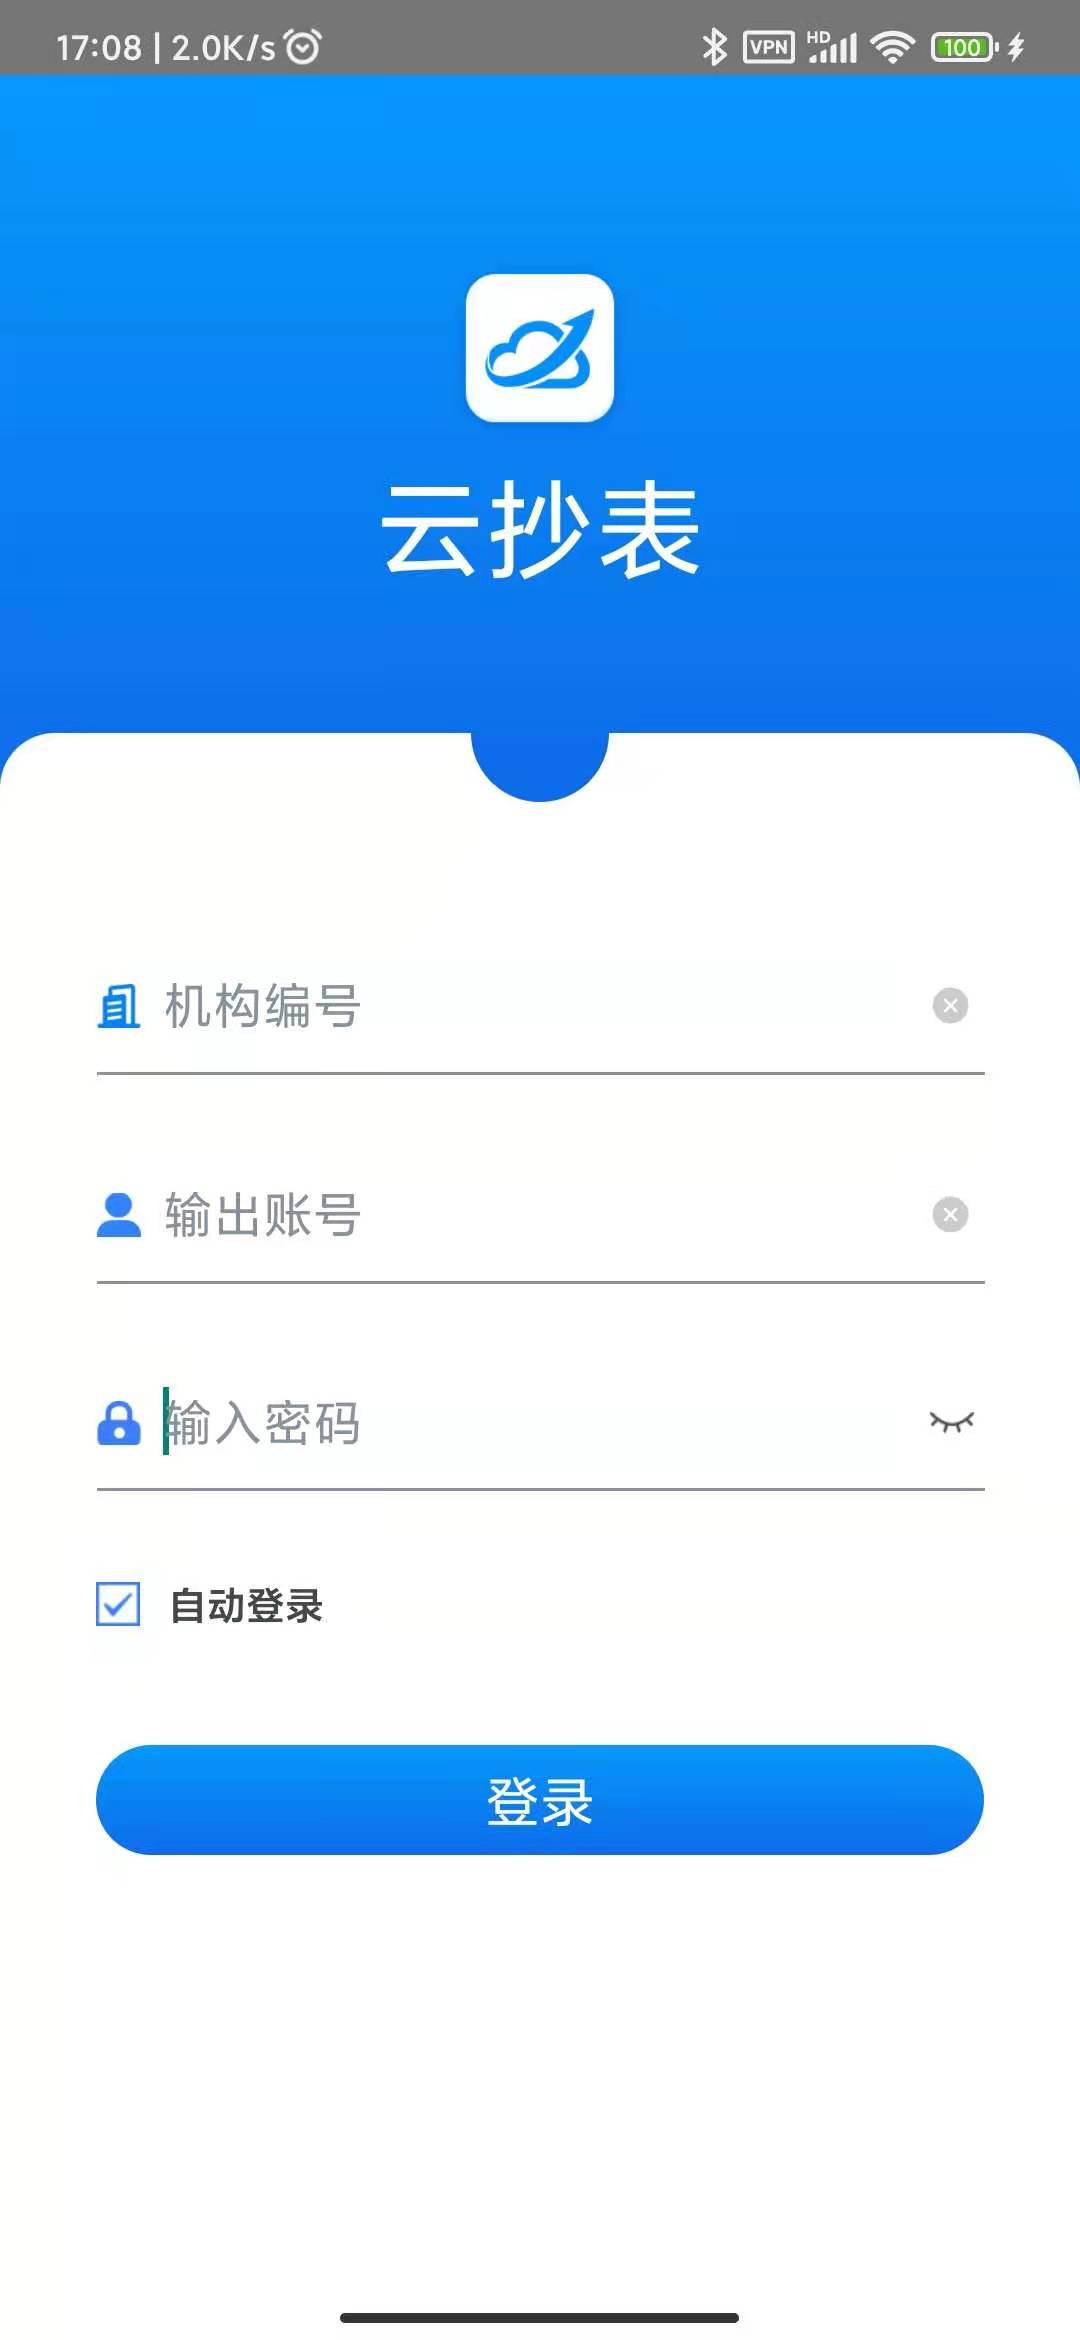
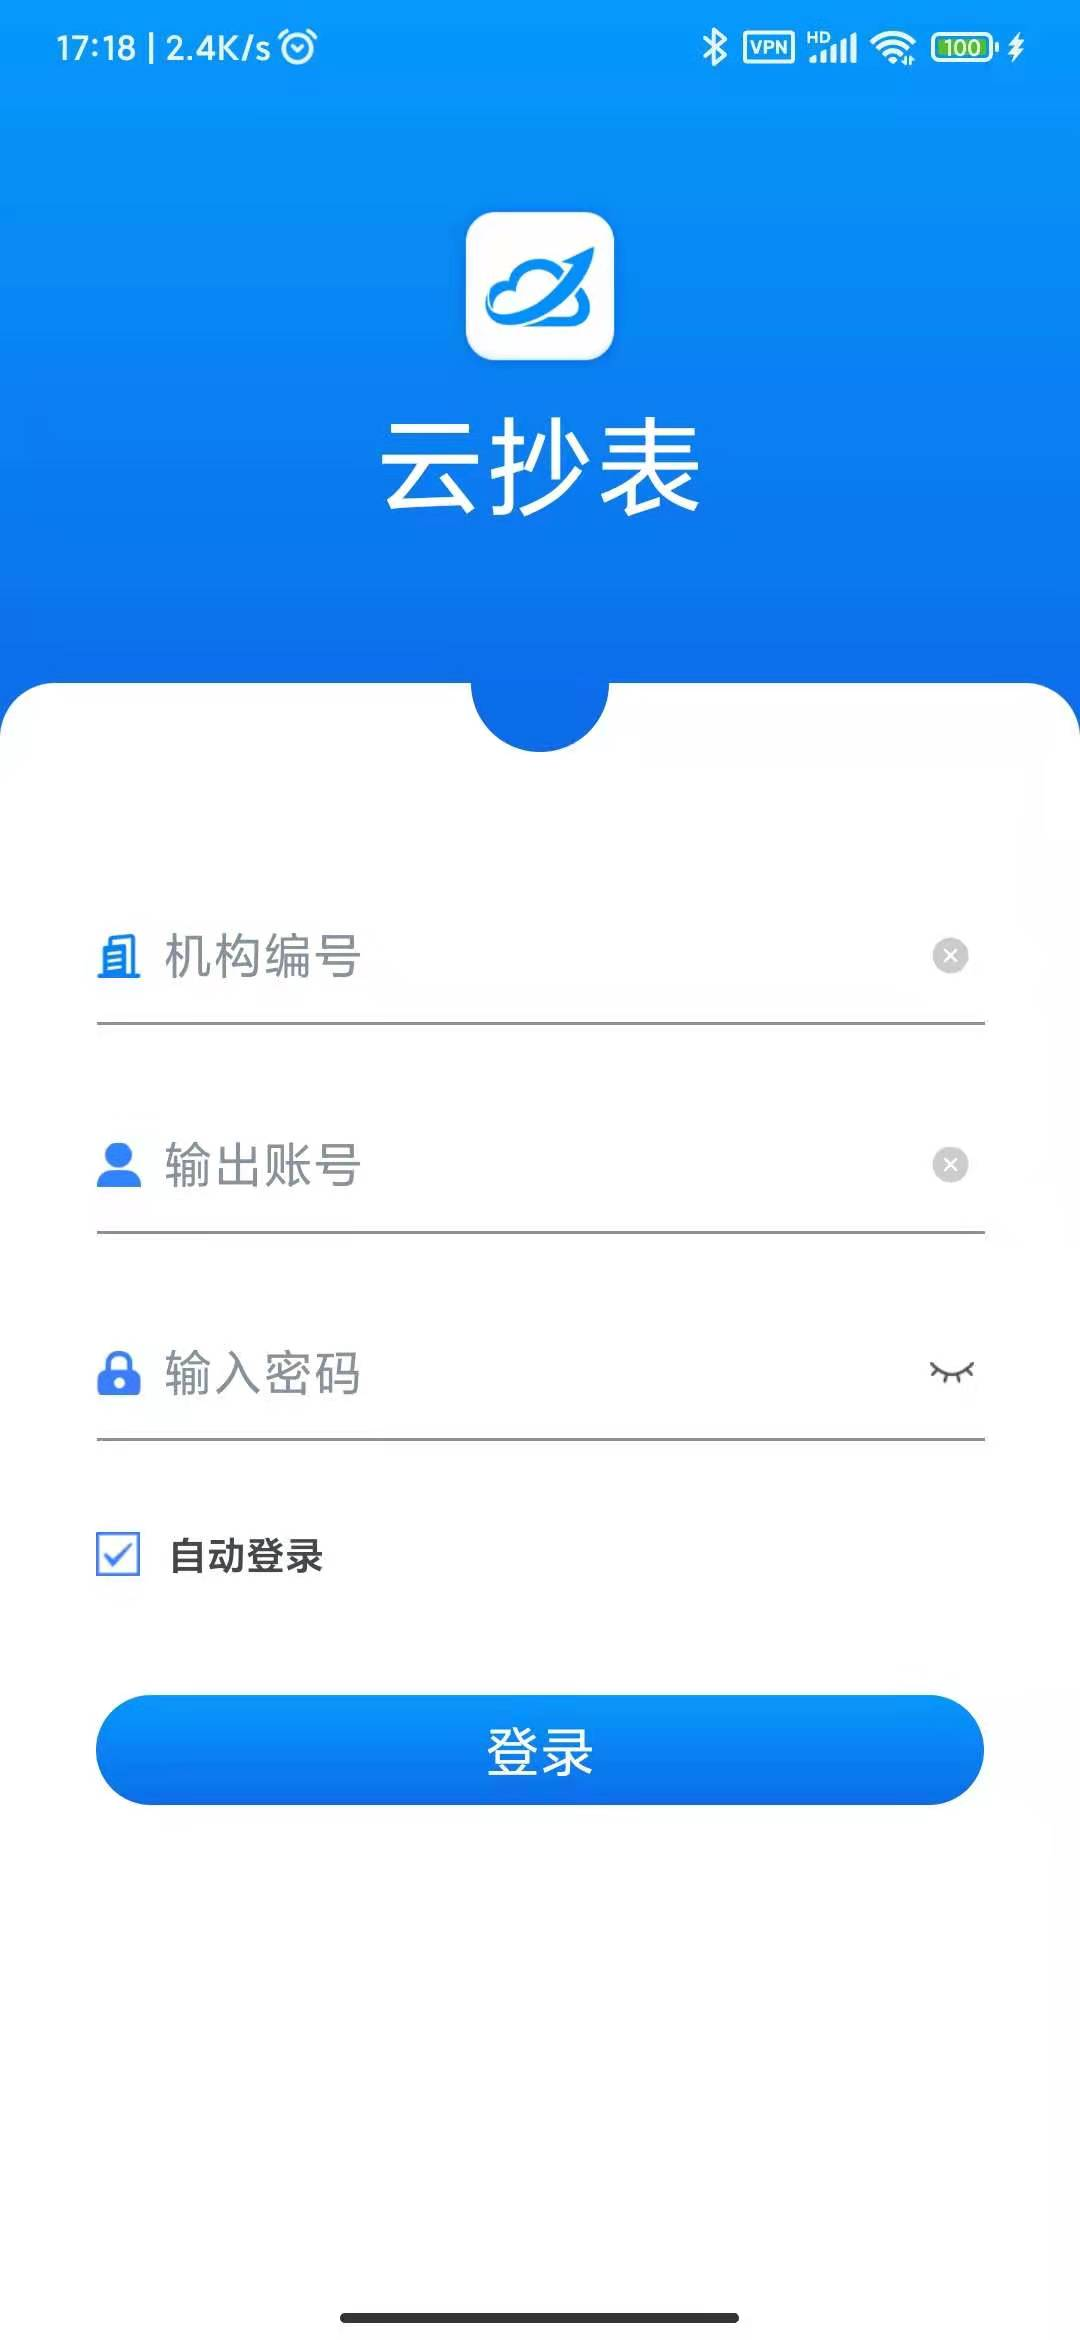
Update 登录页状态栏样式

diff --git a/src/screens/LoginScreen.tsx b/src/screens/LoginScreen.tsx
@@ -13,7 +13,11 @@ export default function LoginScreen() {
 
   return (
     <View style={styles.container}>
-      <StatusBar barStyle="light-content" />
+      <StatusBar
+        barStyle="light-content"
+        translucent={true}
+        backgroundColor="transparent"
+      />
       <LinearGradient
         colors={['#0699FF', '#0D6CEC']}
         style={styles.topContainer}>
